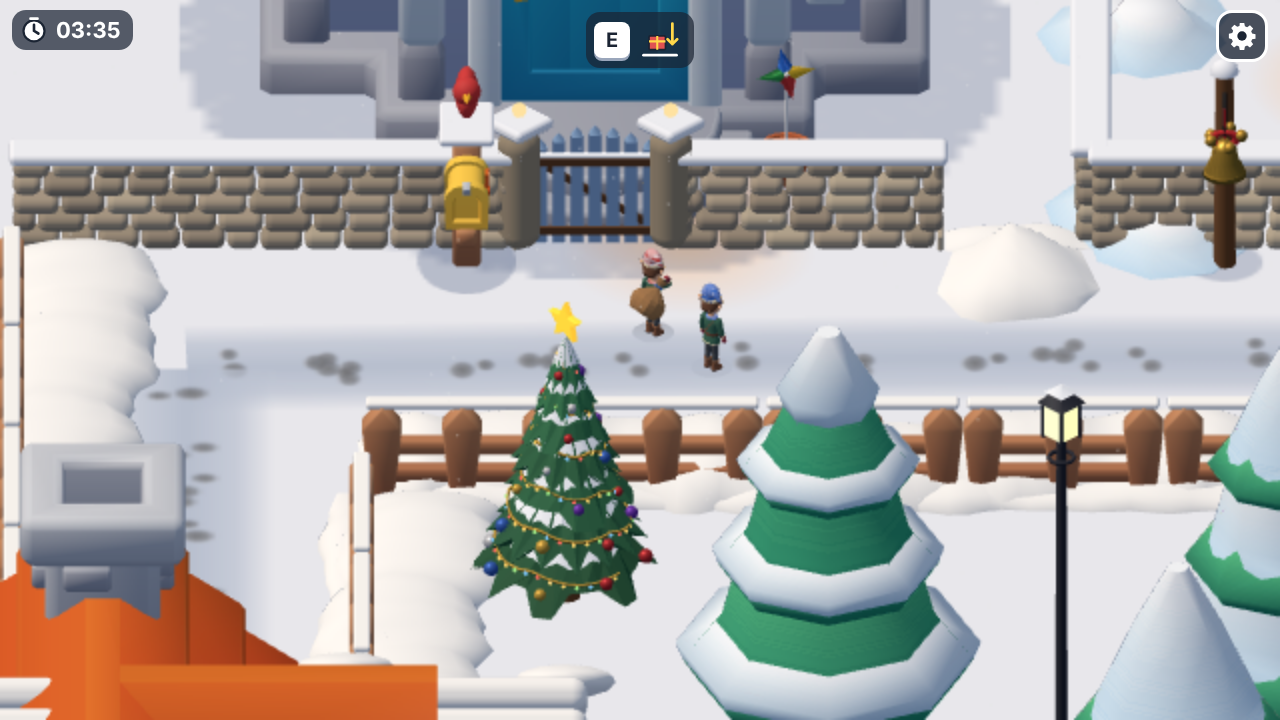
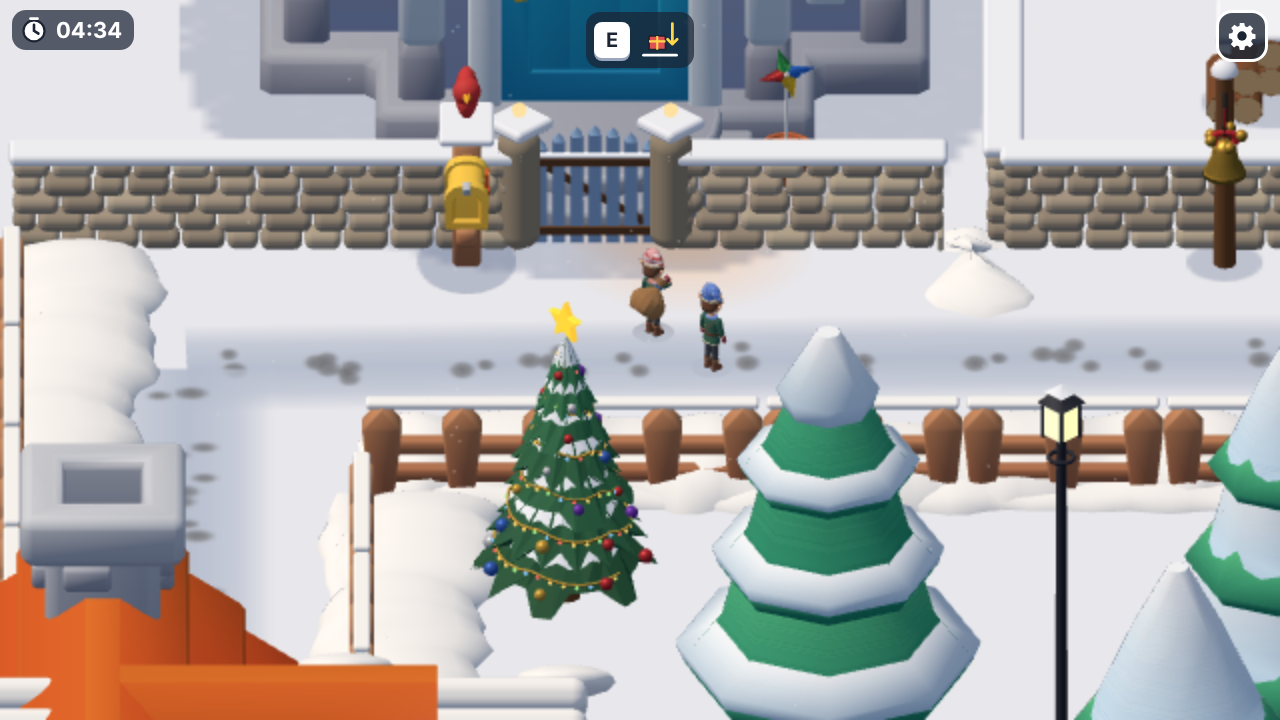
1장 유나네 집(1.35배)·앞마당(깊이 17 m, 폭 26 m) 키우기: 긴 정원길, 엄폐물 여덟(개집 추가, 눈 더미 뺌), 시계 5분
Claude-Session: https://claude.ai/code/session_013wnimf1ouyZfR9DK6cFXAk

diff --git a/src/data/chapter1.ts b/src/data/chapter1.ts
@@ -41,8 +41,13 @@ export const HOUSE_SCALE = TT_HOUSE_SCALE;
 export const HOUSE_HALF = { w: (5.9 * HOUSE_SCALE) / 2, d: (6.0 * HOUSE_SCALE) / 2 };
 /** 문: 집 모델 기준 +x(집을 마주 본 사람의 오른쪽)로 0.8 */
 const DOOR_OFF = 0.8 * HOUSE_SCALE;
+/** 유나네 집은 이웃보다 크다(2026-11-28 사용자: "집과 앞마당 크기를 키워서 더 스릴 있고 긴 콘텐츠로") */
+export const YUNA_HOUSE_K = 1.35;
+const YUNA_HALF = { w: HOUSE_HALF.w * YUNA_HOUSE_K, d: HOUSE_HALF.d * YUNA_HOUSE_K };
+/** 유나네 앞마당 깊이(담 ~ 집 앞면) */
+const YUNA_YARD_DEPTH = 17;
 /** 유나네 집 가운데(골목 좌표 s) */
-const YUNA_S = 57;
+const YUNA_S = 42.5 + YUNA_YARD_DEPTH + YUNA_HALF.d;
 
 /** 앞마당 깊이(집 앞면 ~ 골목 울타리). 사람 집 지붕이 골목을 덮지 않게 넉넉히 */
 export const YARD_DEPTH = 5;
@@ -83,7 +88,7 @@ export interface YardGate {
 }
 
 /** 유나네 앞마당: 낮은 담(사람 허리, 요정 키보다 높다) 앞면 s=front, 왼쪽 t=left ~ 오른쪽 t=right, 나무 대문 t=gate */
-export const YARD = { front: 42.5, back: YUNA_S - HOUSE_HALF.d, left: -9.5, right: 10.5, gate: [7.3, 9.9] as const };
+export const YARD = { front: 42.5, back: YUNA_S - YUNA_HALF.d, left: -11, right: 15, gate: [7.3, 9.9] as const };
 export const LOW_WALL_H = 1.6 * ELF_H;
 
 export const GATES: readonly YardGate[] = [
@@ -113,6 +118,11 @@ export const CH1_HOUSES: readonly Ch1House[] = [
   { id: 'yuna', s: YUNA_S, t: 0, faces: 'back', mail: 'fish', mailSide: 'left', pot: 'windmill', potSide: 'right', lowWall: true, yuna: true },
 ];
 
+/** 집 배율·반 크기·문 위치(유나네만 크다) */
+export const houseScaleOf = (h: Ch1House): number => HOUSE_SCALE * (h.yuna ? YUNA_HOUSE_K : 1);
+export const halfOf = (h: Ch1House): { w: number; d: number } => (h.yuna ? YUNA_HALF : HOUSE_HALF);
+const doorOff = (h: Ch1House): number => DOOR_OFF * (h.yuna ? YUNA_HOUSE_K : 1);
+
 export function houseById(id: string): Ch1House {
   return CH1_HOUSES.find((h) => h.id === id)!;
 }
@@ -129,7 +139,7 @@ export function housePoint(h: Ch1House, ahead: number, side: number): { s: numbe
 
 /** 집 앞면 바로 앞, 문 가운데(골목 좌표) */
 export function doorOf(h: Ch1House): { s: number; t: number } {
-  return housePoint(h, HOUSE_HALF.d, DOOR_OFF);
+  return housePoint(h, halfOf(h).d, doorOff(h));
 }
 
 /** 대문 가운데: 낮은 담 집은 담의 나무 대문, 아니면 골목 울타리의 작은 대문 */
@@ -157,11 +167,11 @@ export function mailboxOf(h: Ch1House): { s: number; t: number } {
 
 /** 화분 자리: 문 왼쪽·오른쪽 1.7, 앞면에서 0.7 앞 */
 export function potOf(h: Ch1House): { s: number; t: number } {
-  return housePoint(h, HOUSE_HALF.d + 0.7, DOOR_OFF + (h.potSide === 'left' ? -1.7 : 1.7));
+  return housePoint(h, halfOf(h).d + 0.7, doorOff(h) + (h.potSide === 'left' ? -1.7 : 1.7) * (h.yuna ? 1.6 : 1));
 }
 
 /** 유나 창가(돌출 창): 문 왼쪽, 사진기 쪽 앞면 */
-export const YUNA_WINDOW = { s: YUNA_S - HOUSE_HALF.d, t: -4.2, width: 3.4, sill: 2.3 * ELF_H, height: 2.6 * ELF_H };
+export const YUNA_WINDOW = { s: YUNA_S - YUNA_HALF.d, t: -4.2 * YUNA_HOUSE_K, width: 4.0, sill: 2.5 * ELF_H, height: 2.9 * ELF_H };
 
 /** 길잡이: 갈림길의 빨간 우체통(울타리 앞), 윗길 모퉁이의 큰 트리(빈 땅 안) */
 export const LANDMARKS = {
@@ -216,7 +226,7 @@ const P = (s: number, t: number): LP => ({ s, t });
 function houseBox(h: Ch1House): Collider {
   const c = W(h.s, h.t);
   const yaw = h.faces === 'back' ? YAW.back : h.faces === 'left' ? YAW.left : YAW.right;
-  return { kind: 'obb', x: c.x, z: c.z, yaw, ha: HOUSE_HALF.d + 0.2, hb: HOUSE_HALF.w + 0.2 };
+  return { kind: 'obb', x: c.x, z: c.z, yaw, ha: halfOf(h).d + 0.2, hb: halfOf(h).w + 0.2 };
 }
 
 /** 길 둘레 울타리(그리기·판정 공용): [시작, 끝, 바깥 방향 부호(울타리 바깥 눈둑)] */
@@ -245,7 +255,7 @@ export const STREET_FENCES: readonly [LP, LP][] = [
   [P(RU.s0, RU.t0), P(RU.s1, RU.t0)],
   // 윗길 위쪽: 이웃집 C 담과 유나네 담 사이, 유나네 담 오른쪽 끝 ~ 윗길 끝
   [P(U.s1, -12), P(U.s1, YARD.left)],
-  [P(U.s1, YARD.right), P(U.s1, U.t1)],
+  // (유나네 담이 윗길 오른쪽 끝보다 넓어 담 오른쪽 ~ 윗길 끝 사이 울타리는 없다)
 ];
 
 /** 낮은 돌담 조각(대문 자리는 비운다): [시작, 끝] */
@@ -340,29 +350,36 @@ export const YUNA_EYE = { s: YARD.back + 0.2, t: YUNA_WINDOW.t };
  */
 export const GARDEN_PATH: readonly { s: number; t: number }[] = [
   { s: YARD.front - 0.4, t: 8.6 },
-  { s: 45.0, t: 8.4 },
-  { s: 47.6, t: 6.4 },
-  { s: 49.3, t: 3.8 },
-  { s: YARD.back - 0.9, t: 1.8 },
+  { s: 45.6, t: 11.2 },
+  { s: 50.0, t: 11.8 },
+  { s: 54.0, t: 11.0 },
+  { s: 56.6, t: 8.0 },
+  { s: YARD.back - 2.6, t: 3.4 },
 ];
 
+/** 엄폐물 생김새 */
+export type CoverKind = 'snowman' | 'tree' | 'bush' | 'logs' | 'doghouse';
 /**
- * 앞마당 엄폐물(골목 좌표, 반지름). 정원길에서 2 m 넘게 떨어진 마당 안쪽에 선다: 숨으려면 길에서 벗어나 그 뒤(창 반대쪽)로 간다.
- * 눈사람(대문에서 비스듬히 안쪽) → 장식 나무(마당 가운데) → 덤불(현관 오른쪽 집 벽 밑), 창 앞 왼쪽 장작 더미. 요정보다 크다
+ * 앞마당 엄폐물(골목 좌표, 반지름). 정원길 옆 창 쪽에 띄엄띄엄(길 위는 비운다): 눈사람 → 개집 → 장식 나무 → 덤불 → 현관.
+ * 마당 가운데·왼쪽에도 몇 개(장식 나무·덤불·장작)(눈 더미는 어색해 뺐다): 길을 벗어나 숨어 가는 다른 길. 요정보다 크다.
+ * 넓은 마당(깊이 17 m): 유나가 한 번 그리는 동안 다 못 건넌다 → 숨었다 뛰었다를 되풀이하거나 종으로 유나를 떼어 놓는다.
  */
-export const COVERS: readonly { id: 'snowman' | 'tree' | 'bush' | 'logs'; s: number; t: number; r: number }[] = [
-  { id: 'snowman', s: 45.2, t: 5.6, r: 0.85 },
-  { id: 'tree', s: 47.2, t: 3.4, r: 0.95 },
-  { id: 'bush', s: 50.4, t: 6.0, r: 0.9 },
-  // 창 앞 왼쪽 장작 더미: 그 뒤가 앞마당 안 망보는 자리(창을 정면에서 엿본다)
-  { id: 'logs', s: 45.4, t: -3.6, r: 0.85 },
+export const COVERS: readonly { id: string; kind: CoverKind; s: number; t: number; r: number }[] = [
+  { id: 'snowman', kind: 'snowman', s: 46.4, t: 8.7, r: 0.85 },
+  { id: 'doghouse', kind: 'doghouse', s: 50.2, t: 9.2, r: 1.05 },
+  { id: 'treeA', kind: 'tree', s: 53.4, t: 8.0, r: 0.95 },
+  { id: 'bushA', kind: 'bush', s: 54.6, t: 4.6, r: 0.9 },
+  { id: 'treeB', kind: 'tree', s: 50.0, t: 3.0, r: 0.95 },
+  { id: 'bushB', kind: 'bush', s: 45.4, t: 3.4, r: 0.9 },
+  { id: 'logs', kind: 'logs', s: 47.4, t: -6.4, r: 0.85 },
+  { id: 'bushC', kind: 'bush', s: 53.8, t: -1.6, r: 0.95 },
 ];
 
 /** 창 바로 아래(유나가 내려다보지 못하는 곳) */
 export const BLIND = { s0: YARD.back - 1.5, t0: YUNA_WINDOW.t - 2.0, t1: YUNA_WINDOW.t + 2.0 };
 
 /** 현관 발판(선물을 놓는 곳): 문 앞 */
-export const PORCH = { s: YARD.back - 0.9, t: 0.8 * HOUSE_SCALE, hs: 1.0, ht: 1.5 };
+export const PORCH = { s: YARD.back - 1.9, t: DOOR_OFF * YUNA_HOUSE_K, hs: 1.2, ht: 1.8 };
 
 /** 들킨 요정이 돌아가는 곳: 엄폐물에 숨은 적이 없으면 대문 밖 */
 export const OUTSIDE_GATE = { s: YARD.front - 1.4, t: (YARD.gate[0] + YARD.gate[1]) / 2 };

diff --git a/src/scene/chapter1.ts b/src/scene/chapter1.ts
@@ -6,11 +6,11 @@ import {
   ARCH,
   CH1_HOUSES,
   HOUSE_HALF,
-  HOUSE_SCALE,
+  YUNA_HOUSE_K,
+  houseScaleOf,
   LANE_HALF,
   LOW_WALL_H,
   W,
-  YARD,
   YAW,
   YUNA_WINDOW,
   COVERS,
@@ -574,6 +574,72 @@ function gardenSnowman(models: Models): THREE.Group {
   return g;
 }
 
+/** 마당 개집: 판자 벽(두 가지 나무색 줄무늬) + 빨간 박공지붕 + 둥근 문 + 문패(뼈다귀) + 밥그릇. 요정보다 높다 */
+function doghouse(): THREE.Group {
+  const g = new THREE.Group();
+  const woodA = std('#b07a4a', { roughness: 0.85 });
+  const woodB = std('#9c6a3f', { roughness: 0.85 });
+  const roofM = std('#b8322e', { roughness: 0.7 });
+  const W0 = 1.7, D0 = 1.5, H0 = 1.15;
+  // 판자 벽: 가로 판자 줄을 번갈아
+  const rows = 6;
+  for (let i = 0; i < rows; i++) {
+    const p = new THREE.Mesh(roundedBox(W0, H0 / rows - 0.015, D0), i % 2 ? woodA : woodB);
+    p.position.y = 0.06 + (i + 0.5) * (H0 / rows);
+    g.add(p);
+  }
+  // 박공(앞뒤 삼각 벽)
+  const tri = new THREE.Shape();
+  tri.moveTo(-W0 / 2, 0);
+  tri.lineTo(W0 / 2, 0);
+  tri.lineTo(0, 0.62);
+  tri.closePath();
+  for (const z of [D0 / 2 - 0.04, -D0 / 2 - 0.04]) {
+    const gab = new THREE.Mesh(new THREE.ExtrudeGeometry(tri, { depth: 0.08, bevelEnabled: false }), woodA);
+    gab.position.set(0, 0.06 + H0, z);
+    g.add(gab);
+  }
+  // 지붕 두 판(처마가 살짝 나온다) + 그 위 얇게 앉은 눈
+  const slope = Math.atan2(0.62, W0 / 2);
+  const len = Math.hypot(W0 / 2, 0.62) + 0.22;
+  for (const sx of [-1, 1]) {
+    const r = new THREE.Mesh(roundedBox(len, 0.1, D0 + 0.35), roofM);
+    r.position.set(sx * (W0 / 4 + 0.04), 0.06 + H0 + 0.33, 0);
+    r.rotation.z = -sx * slope;
+    g.add(r);
+    const sn = new THREE.Mesh(roundedBox(len - 0.12, 0.05, D0 + 0.2), snowMat);
+    sn.position.set(sx * (W0 / 4 + 0.02), 0.06 + H0 + 0.4, 0);
+    sn.rotation.z = -sx * slope;
+    g.add(sn);
+  }
+  // 둥근 문(어두운 안쪽)
+  const door = new THREE.Mesh(new THREE.CircleGeometry(0.34, 20, 0, Math.PI), std('#2a1c14', { roughness: 1 }));
+  door.position.set(0, 0.5, D0 / 2 + 0.005);
+  g.add(door);
+  const doorLow = new THREE.Mesh(new THREE.PlaneGeometry(0.68, 0.44), std('#2a1c14', { roughness: 1 }));
+  doorLow.position.set(0, 0.28, D0 / 2 + 0.005);
+  g.add(doorLow);
+  // 문패: 하얀 뼈다귀
+  const bone = new THREE.Group();
+  const boneM = std('#f4efe2', { roughness: 0.6 });
+  const shaft = new THREE.Mesh(new THREE.CapsuleGeometry(0.035, 0.22, 4, 8), boneM);
+  shaft.rotation.z = Math.PI / 2;
+  bone.add(shaft);
+  for (const sx of [-1, 1]) for (const sy of [-1, 1]) {
+    const knob = new THREE.Mesh(new THREE.SphereGeometry(0.045, 8, 6), boneM);
+    knob.position.set(sx * 0.15, sy * 0.035, 0);
+    bone.add(knob);
+  }
+  bone.position.set(0, 1.0, D0 / 2 + 0.05);
+  g.add(bone);
+  // 밥그릇
+  const bowl = new THREE.Mesh(new THREE.CylinderGeometry(0.2, 0.15, 0.12, 16), std('#3f6fd1', { roughness: 0.5 }));
+  bowl.position.set(0.55, 0.06, D0 / 2 + 0.35);
+  g.add(bowl);
+  g.add(contactShadow(2.4, 2.2, 0.32));
+  return g;
+}
+
 /** 정원의 작은 장식 나무(Kenney CC0) */
 function gardenTree(models: Models): THREE.Group {
   const m = models.clone('treeDecorated');
@@ -796,7 +862,7 @@ export function createChapter1Scene(models: Models, base: string, detail: Detail
   const houseMeshes: THREE.Object3D[] = [];
   for (const h of CH1_HOUSES) {
     const c = at(h.s, h.t);
-    const house = alleyHouse(models, { x: c.x, z: c.z, rotY: faceYaw(h), scale: HOUSE_SCALE });
+    const house = alleyHouse(models, { x: c.x, z: c.z, rotY: faceYaw(h), scale: houseScaleOf(h) });
     if (!h.yuna) house.userData.fadeable = true;
     else houseMeshes.push(house); // 앞쪽 집이 뒤 길의 요정을 가리면 흐려진다
     root.add(house);
@@ -908,15 +974,15 @@ export function createChapter1Scene(models: Models, base: string, detail: Detail
 
   // 앞마당: 대문 → 현관 디딤돌 정원길(비워 둔다), 길옆 엄폐물(눈사람·장식 나무·덤불), 장작 더미, 현관 등
   root.add(steppingStones(GARDEN_PATH));
-  const makers = { snowman: () => gardenSnowman(models), tree: () => gardenTree(models), bush: gardenBush, logs } as const;
+  const makers = { snowman: () => gardenSnowman(models), tree: () => gardenTree(models), bush: gardenBush, logs, doghouse } as const;
   for (const c of COVERS) {
-    const o = makers[c.id]();
+    const o = makers[c.kind]();
     o.position.copy(at(c.s, c.t));
-    o.rotation.y = YAW.back + (c.id === 'snowman' ? -0.5 : 0);
+    o.rotation.y = YAW.back + (c.kind === 'snowman' ? -0.5 : c.kind === 'doghouse' ? -0.35 : 0);
     o.userData.fadeable = true;
     root.add(o);
   }
-  // 현관 양옆 등(Kenney CC0), 담 밑 눈더미
+  // 현관 양옆 등(Kenney CC0)
   {
     const yuna = CH1_HOUSES.find((h) => h.yuna)!;
     const d = doorOf(yuna);
@@ -924,16 +990,7 @@ export function createChapter1Scene(models: Models, base: string, detail: Detail
       const l = models.clone('lantern');
       if (!l) break;
       const o = fitHeight(l, 0.9);
-      o.position.copy(at(d.s - 0.5, d.t + k));
-      root.add(o);
-    }
-    for (const [ps, pt, sc] of [[43.3, -8.3, 1.3], [46.5, 9.8, 1.0], [43.2, 3.5, 1.1], [YARD.back - 1.2, -8.6, 1.2]] as const) {
-      const sp = models.clone('snowPile');
-      if (!sp) break;
-      const o = fitHeight(sp, 0.55 * sc);
-      o.scale.multiplyScalar(1);
-      o.position.copy(at(ps, pt));
-      o.rotation.y = ps * 1.7;
+      o.position.copy(at(d.s - 0.5 * YUNA_HOUSE_K, d.t + k * YUNA_HOUSE_K));
       root.add(o);
     }
   }
@@ -956,9 +1013,10 @@ export function createChapter1Scene(models: Models, base: string, detail: Detail
     return hit ? hit.point.y : 0;
   };
   // 계단 윗단(집 모델에서 잰 높이 약 0.8)은 문 앞 t 약 -0.5 ~ 1.6에 걸쳐 있다 → 그 가운데 두 자리
-  const doorstep = [-0.5, 0.5].map((k) => {
-    const s0 = door.s - 0.8;
-    const t0 = 0.6 + k;
+  const kk = YUNA_HOUSE_K;
+  const doorstep = [-0.55, 0.55].map((k) => {
+    const s0 = door.s - 0.8 * kk;
+    const t0 = 0.6 * kk + k;
     return at(s0, t0, stepTop(s0, t0) + 0.01);
   });
   const windowCenter = win.group.localToWorld(new THREE.Vector3(0, YUNA_WINDOW.sill + YUNA_WINDOW.height / 2, 1.5));

diff --git a/tests/e2e/chapter1.spec.ts b/tests/e2e/chapter1.spec.ts
@@ -83,7 +83,7 @@ test('1장 시작 그림책: 그동안 시계가 멈춰 있고, 건너뛰면 바
   await page.waitForTimeout(2500);
   expect(await H(page, (h) => h.story())).toBeGreaterThan(1);
   expect((await H(page, (h) => h.run())).phase).toBe('lobby');
-  await expect(page.locator('#hud .timer .t')).toHaveText('04:00');
+  await expect(page.locator('#hud .timer .t')).toHaveText('05:00');
   await page.locator('#storybook button').click();
   await page.waitForFunction(() => (window as unknown as { __lastgift: Hook }).__lastgift.story() === null);
   await expect(page.locator('#storybook')).toHaveCount(0);
@@ -140,8 +140,8 @@ test('1장 배달: 현관에서 자루를 풀어 두 선물을 놓고 모두 물
   await page.evaluate(() => {
     const h = (window as unknown as { __lastgift: Hook }).__lastgift;
     h.setTime(0.1);
-    h.debugPlace('p0', 49.4, 0.2, Math.PI * 1.25);
-    h.debugPlace('p1', 49.4, 1.6, Math.PI * 1.25);
+    h.debugPlace('p0', 56.8, 1.6, Math.PI * 1.25);
+    h.debugPlace('p1', 56.8, 3.0, Math.PI * 1.25);
   });
   await page.waitForTimeout(500);
   await page.keyboard.press('KeyE');

diff --git a/tests/review/ch1.spec.ts b/tests/review/ch1.spec.ts
@@ -33,9 +33,10 @@ test('1장 장면', async ({ page }) => {
     ['e4_neighborC', 39.5, -17],
     ['e5_rightB', 33, 22],
     ['f_yunaGate', 40.4, 7.4],
-    ['g_inyard', 46, 8],
+    ['g_inyard', 47.5, 11.4],
+    ['g2_midyard', 52, 5],
     ['h_bell', 41.0, -6.0],
-    ['i_porch', 50.2, 2.4],
+    ['i_porch', 56.6, 3.0],
   ];
   for (const [name, s, t] of spots) {
     await hook(page, 'debugPlace', 'p0', s, t, Math.PI);
@@ -91,8 +92,8 @@ test('1장 장면', async ({ page }) => {
   await page.screenshot({ path: `${OUT}/h6_backAtGate.png` });
   // 현관 발판에서 자루를 풀어 두 선물을 꺼낸다
   await hook(page, 'setTime', 0.1);
-  await hook(page, 'debugPlace', 'p0', 49.4, 0.2, Math.PI * 1.25);
-  await hook(page, 'debugPlace', 'p1', 47.6, 2.2, Math.PI * 1.25);
+  await hook(page, 'debugPlace', 'p0', 56.8, 2.1, Math.PI * 1.25);
+  await hook(page, 'debugPlace', 'p1', 55.4, 6.0, Math.PI * 1.25);
   await page.waitForTimeout(1200);
   await page.keyboard.press('KeyE');
   await page.waitForTimeout(1500);

diff --git a/src/game/chapter1.ts b/src/game/chapter1.ts
@@ -99,7 +99,7 @@ export function startChapter1(models: Models, opts?: StoryOptions): void {
   setShadows(space.root, true);
   scene.add(space.root);
   // 배경: 밤하늘·달·먼 언덕·숲·이웃집(놀이 공간과 사진기 쪽은 비운다)
-  scene.add(createBackdrop(models, { center: W(25, 0), forest: [16, 95], trees: 460, keepOut: (p) => { const l = toLane(p); return l.s > -48 && l.s < 75 && l.t > -40 && l.t < 36; } })); // 갈림길 동네 전체(먼 집·숲이 길을 덮지 않게)
+  scene.add(createBackdrop(models, { center: W(25, 0), forest: [16, 95], trees: 460, keepOut: (p) => { const l = toLane(p); return l.s > -48 && l.s < 85 && l.t > -40 && l.t < 36; } })); // 갈림길 동네 전체(먼 집·숲이 길을 덮지 않게)
   addHaze(scene);
 
   const camera = new THREE.OrthographicCamera(-1, 1, 1, -1, 0.1, 700);

diff --git a/src/data/chapters.ts b/src/data/chapters.ts
@@ -21,7 +21,7 @@ export const RUN_MS = 30 * MIN;
 
 export const CHAPTERS: readonly ChapterDef[] = [
   { id: 0, floorMs: 3 * MIN, memory: null, lightResetKeys: [] },
-  { id: 1, floorMs: 4 * MIN, memory: 1, lightResetKeys: [] },
+  { id: 1, floorMs: 5 * MIN, memory: 1, lightResetKeys: [] },
   { id: 2, floorMs: 5 * MIN, memory: 2, lightResetKeys: [] },
   { id: 3, floorMs: 5 * MIN, memory: 3, lightResetKeys: [] },
   // 4장: 시간 초과 시 스위치 쌍만 풀리고 전선·충전은 유지된다

diff --git a/LAST_GIFT_SPEC.md b/LAST_GIFT_SPEC.md
@@ -16,7 +16,7 @@
 | 장 | 플레이 목표 | 설계 분량 |
 |---|---|---:|
 | 0 | 광장에 흩어진 다섯 물건을 네 배달지로 분류 | 3분 |
-| 1 | 지도·갈림길 동네·종으로 유나 따돌리기·무궁화 꽃·유나네 현관에 두 물건 놓기 | 4분 |
+| 1 | 지도·갈림길 동네·종으로 유나 따돌리기·무궁화 꽃(넓은 앞마당)·유나네 현관에 두 물건 놓기 | 5분 |
 | 2 | 두 요정이 재봉틀을 들고 교대하며 덧문 통과 | 5분 |
 | 3 | 축구공 던져 받기, 콩이와 민재의 첫 만남 | 5분 |
 | 4 | 세 전선 연결, 발전기 돌리기, 스위치 두 개 | 5분 |
@@ -89,13 +89,14 @@
 > - 흩어진 선물은 **먼저 썰매 쪽으로 모은다**: 썰매 옆 그림 자루 둘(유나네 물고기·할머니 댁 트리 집)에 넣고, 축구공(민재네 눈사람)·재봉틀(수선집 단추)은 자루 없이 그림 깔개 위에 둔다(따로 든다). 골목 입구의 그림 표지판은 길 찾기 표시로만 남는다.
 > - 다 나누면 요정이 물고기 자루 목을 어깨에 걸쳐 등에 메고 유나네 골목으로 출발한다. 1·4장도 그 장 자루를 메고 가서 도착하면 꺼낸다(공·재봉틀은 따로 든다).
 
-## 1장 · 유나의 첫 스케치북 (4분)
+## 1장 · 유나의 첫 스케치북 (5분)
 
 > **2026-11-28 사용자 결정으로 바뀜(개발 반영)**
 > - 유나네 찾기: 곧은 골목 대신 **갈림길 동네**(막다른 갈래·빨간 우체통 갈림길·윗길). 낮은 담 + 나무 대문 집 넷 중 지도 단서가 다 맞는 집이 유나네. 유나네 대문은 E로 빗장을 풀어 연다(가짜 집 대문은 덜컹).
 > - 들키지 않기: **무궁화 꽃이 피었습니다** — 유나가 일어나 돌아서서(예고 1초, 짧은 소리) 창밖을 볼 때 앞마당에서 **움직이면** 들킨다(멈춰 있거나 엄폐물 뒤면 괜찮다). 창 성에는 옅어 누구나 유나가 보인다. 망보기·손 신호·엿보기 작은 화면은 없앴다.
 > - 들키면 순간이동 대신 **화면이 잠깐 까맣게** 바뀌고 들킨 요정은 대문 앞에 돌아가 있다. 유나는 다시 그림부터.
 > - 유나 따돌리기: 담 밖 **종**을 울리면 유나가 창가를 떠나 8초 동안 창이 빈다(한 명이 울리고 나머지가 현관까지).
+> - 유나네 **집(이웃의 1.35배)과 앞마당(깊이 8.5 → 17 m, 폭 20 → 26 m)을 키웠다**. 대문 → 현관 정원길 약 21 m, 엄폐물 여덟(눈사람·개집·장식 나무 둘·덤불 셋·장작). 한 번에 못 건너 숨었다 뛰었다를 되풀이하거나 종으로 유나를 떼어 놓는다. 1장 시계 4분 → 5분.
 > - 선물은 현관 **계단 윗단, 문 바로 앞**에 놓인다. 앞마당 정원길은 비워 두고 엄폐물(눈사람·장식 나무·덤불)은 길에서 떨어진 마당 안쪽에.
 
 지우의 공책 귀퉁이에 유나가 고래를 그린다. 종이 끝에서 연필이 멈춘다. 꼬리 그릴 자리가 없다. 지우는 그 모습을 보고 빈 스케치북과 색연필을 그린 카드를 만든다. 선물을 받을 자리에 유나의 얼굴을 그리고, 봉투에 산타 모양 우표를 붙여 우체통에 넣는다. 화면이 요정의 손에 들린 같은 카드로 이어진다. 한 요정이 지우의 그림 지도를 펴고 다른 요정은 같은 표시가 붙은 우편함을 찾는다. 유나가 창가를 떠난 사이 선물을 현관에 놓는다. 스케치북을 받아 든 유나가 첫 장을 활짝 펼치고 고래를 그린다. 이번엔 꼬리까지 다 그린다. 유나는 스케치북을 번쩍 들어 올리고 활짝 웃는다.

diff --git a/docs/CLASSROOM_TEST.md b/docs/CLASSROOM_TEST.md
@@ -41,7 +41,7 @@
 | 장 | 목표(명세) | 첫 팀 놀이 | 연출 | 재시도 | 방장 평균/느린5% FPS | 참가자 평균/느린5% FPS | 기기·브라우저 |
 |---|---|---|---|---|---|---|---|
 | 0장 | 3분 | | | | | | |
-| 1장 | 4분 | | | | | | |
+| 1장 | 5분 | | | | | | |
 | 2장 | 5분 | | | | | | |
 | 3장 | 5분 | | | | | | |
 | 4장 | 5분 | | | | | | |
